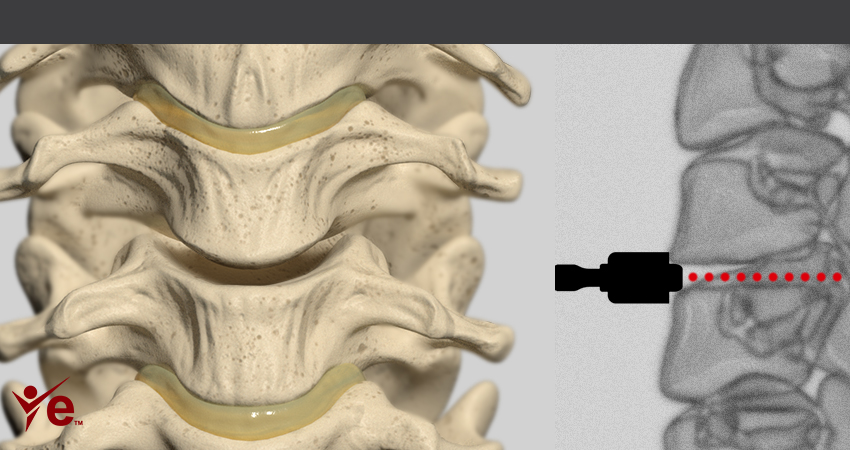
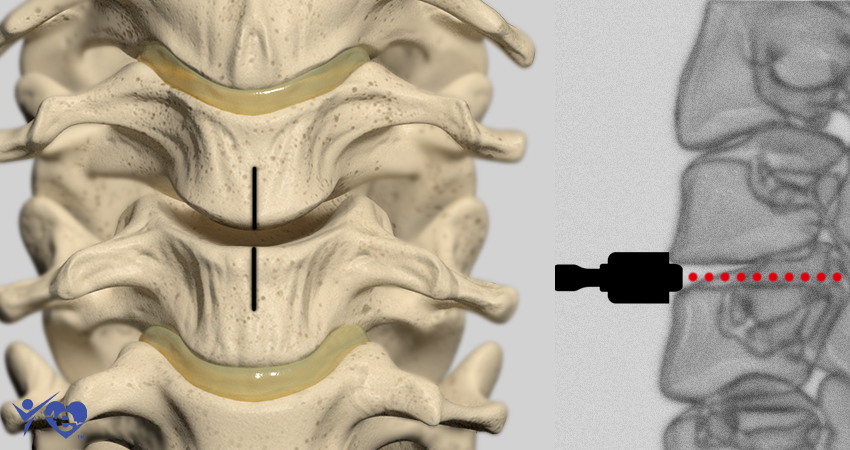
changes

diff --git a/src/App.js b/src/App.js
@@ -5,7 +5,7 @@ import { Line2, LineGeometry, LineMaterial } from 'three-fatline';
 
 //scene
 let canvas, camera, scene, light, renderer,
-	chiselObj, shiftObj, circlePlane;
+	chiselObj, shiftObj, circlePlane, lineObj;
 //popup
 let popupPlaneMesh,
 	popupBtn = document.getElementById('popupBtn'),
@@ -19,9 +19,10 @@ let params = {
 	isSimulationActive: false,
 	isChiselLocked: false,
 	isSetChiselCorrect: undefined,
-	successChiselAngle: 194.5 * Math.PI / 180.0,
-	maxAngleOffset: 2.0 * Math.PI / 180.0,
-	waitPopupTime: 1000
+	successChiselAngle: 195.0 * Math.PI / 180.0,
+	maxAngleOffset: 1.5 * Math.PI / 180.0,
+	waitPopupTime: 1000,
+	successColor: 0x0dff00 
 };
 
 let objectsParams = {
@@ -29,11 +30,11 @@ let objectsParams = {
 	chisel: {
 		chiselObj: 'chisel.obj',
 		chiselMtl: 'chisel.mtl',
-		scale: new THREE.Vector3(1.0, 1.0, 1.0),
-		position: new THREE.Vector3(-16.5, -4.0, -18.0),
+		scale: new THREE.Vector3(1.0, 1.0, 1.3),
+		position: new THREE.Vector3(-16.0, -4.0, -18.0),
 		rotation: new THREE.Vector3(
 			8.0 * Math.PI / 180.0,
-			194.5 * Math.PI / 180.0, //185
+			185.0 * Math.PI / 180.0, //185
 			3.0 * Math.PI / 180.0),
 		rotationPointShift: -15.0,
 		rotationStep: 0.005,
@@ -48,9 +49,9 @@ let objectsParams = {
 		position: 	new THREE.Vector3(13.9, -3.4, 0.0)
 	},
 	line: {
-		lineWidth: 3,
-		lineColor: '#000000',
-		lineEndsPositionArray: [ -15.7, 2.5, -15.0, -15.7, -3.5, -15.0 ]
+		lineWidth: 2,
+		lineColor: '#0dff00',
+		lineEndsPositionArray: [ -15.2, 5.0, -15.0, -5.5, -8.0, 20.0 ]
 	}
 };
 
@@ -111,20 +112,21 @@ class App {
 		});
 		const lineGeometry = new LineGeometry();
 		lineGeometry.setPositions(objectsParams.line.lineEndsPositionArray);
-		const lineObj = new Line2(lineGeometry, lineMtl);
-		scene.add(lineObj);
+		lineObj = new Line2(lineGeometry, lineMtl);
 
 		//planeCircle
 		const circlePlaneGeom = new THREE.PlaneGeometry(objectsParams.circlePlane.width, objectsParams.circlePlane.height, 10.0);
 		loader = new THREE.TextureLoader();
 		const circleMaterial = new THREE.MeshBasicMaterial({
 			map: loader.load(objectsParams.circlePlane.pathSrc, function (texture) {
-				texture.minFilter = THREE.LinearFilter; }),
+				texture.minFilter = THREE.LinearFilter;
+			}),
 			transparent: true
-		});    
+		});
 		circlePlane = new THREE.Mesh(circlePlaneGeom, circleMaterial);
 		circlePlane.scale.copy(objectsParams.circlePlane.scale);
 		circlePlane.position.copy(objectsParams.circlePlane.position);
+		circlePlane.rotation.y = Math.abs(params.successChiselAngle - shiftObj.rotation.y) * 2.0;
 		scene.add(circlePlane);
 		
 		//popup
@@ -153,7 +155,15 @@ function onMouseMove(e) {
 		if (newAngle < objectsParams.chisel.maxAngle && newAngle > objectsParams.chisel.minAngle)
 		{
 			shiftObj.rotation.y += movementX * objectsParams.chisel.rotationStep;
-			circlePlane.rotation.y = Math.abs(objectsParams.chisel.rotation.y - shiftObj.rotation.y) * 2.0;
+			circlePlane.rotation.y = Math.abs(params.successChiselAngle - shiftObj.rotation.y) * 2.0;
+		}
+		//check for green success
+		scene.remove(lineObj);
+		circlePlane.material.color.setHex( 0xffffff );
+		if (Math.abs(shiftObj.rotation.y - params.successChiselAngle) < params.maxAngleOffset)
+		{
+			scene.add(lineObj);
+			circlePlane.material.color.setHex( params.successColor );
 		}
 	}
 }
@@ -203,7 +213,7 @@ function createPopupPlane() {
 		transparent: true
 	});    
 	popupPlaneMesh = new THREE.Mesh(popupPlane, popupMaterial);
-	popupPlaneMesh.scale.set(0.035, 0.035, 0.035)
+	popupPlaneMesh.scale.set(0.04, 0.045, 0.04)
 	popupPlaneMesh.position.z = 10;
 }
 

diff --git a/build/bundle.js b/build/bundle.js
@@ -44259,7 +44259,7 @@
 
 	//scene
 	let canvas, camera, scene, light, renderer,
-		chiselObj, shiftObj, circlePlane;
+		chiselObj, shiftObj, circlePlane, lineObj;
 	//popup
 	let popupPlaneMesh,
 		popupBtn = document.getElementById('popupBtn'),
@@ -44273,9 +44273,10 @@
 		isSimulationActive: false,
 		isChiselLocked: false,
 		isSetChiselCorrect: undefined,
-		successChiselAngle: 194.5 * Math.PI / 180.0,
-		maxAngleOffset: 2.0 * Math.PI / 180.0,
-		waitPopupTime: 1000
+		successChiselAngle: 195.0 * Math.PI / 180.0,
+		maxAngleOffset: 1.5 * Math.PI / 180.0,
+		waitPopupTime: 1000,
+		successColor: 0x0dff00 
 	};
 
 	let objectsParams = {
@@ -44283,11 +44284,11 @@
 		chisel: {
 			chiselObj: 'chisel.obj',
 			chiselMtl: 'chisel.mtl',
-			scale: new Vector3(1.0, 1.0, 1.0),
-			position: new Vector3(-16.5, -4.0, -18.0),
+			scale: new Vector3(1.0, 1.0, 1.3),
+			position: new Vector3(-16.0, -4.0, -18.0),
 			rotation: new Vector3(
 				8.0 * Math.PI / 180.0,
-				194.5 * Math.PI / 180.0, //185
+				185.0 * Math.PI / 180.0, //185
 				3.0 * Math.PI / 180.0),
 			rotationPointShift: -15.0,
 			rotationStep: 0.005,
@@ -44302,9 +44303,9 @@
 			position: 	new Vector3(13.9, -3.4, 0.0)
 		},
 		line: {
-			lineWidth: 3,
-			lineColor: '#000000',
-			lineEndsPositionArray: [ -15.7, 2.5, -15.0, -15.7, -3.5, -15.0 ]
+			lineWidth: 2,
+			lineColor: '#0dff00',
+			lineEndsPositionArray: [ -15.2, 5.0, -15.0, -5.5, -8.0, 20.0 ]
 		}
 	};
 
@@ -44365,20 +44366,21 @@
 			});
 			const lineGeometry = new LineGeometry();
 			lineGeometry.setPositions(objectsParams.line.lineEndsPositionArray);
-			const lineObj = new Line2(lineGeometry, lineMtl);
-			scene.add(lineObj);
+			lineObj = new Line2(lineGeometry, lineMtl);
 
 			//planeCircle
 			const circlePlaneGeom = new PlaneGeometry(objectsParams.circlePlane.width, objectsParams.circlePlane.height, 10.0);
 			loader = new TextureLoader();
 			const circleMaterial = new MeshBasicMaterial({
 				map: loader.load(objectsParams.circlePlane.pathSrc, function (texture) {
-					texture.minFilter = LinearFilter; }),
+					texture.minFilter = LinearFilter;
+				}),
 				transparent: true
-			});    
+			});
 			circlePlane = new Mesh(circlePlaneGeom, circleMaterial);
 			circlePlane.scale.copy(objectsParams.circlePlane.scale);
 			circlePlane.position.copy(objectsParams.circlePlane.position);
+			circlePlane.rotation.y = Math.abs(params.successChiselAngle - shiftObj.rotation.y) * 2.0;
 			scene.add(circlePlane);
 			
 			//popup
@@ -44407,7 +44409,15 @@
 			if (newAngle < objectsParams.chisel.maxAngle && newAngle > objectsParams.chisel.minAngle)
 			{
 				shiftObj.rotation.y += movementX * objectsParams.chisel.rotationStep;
-				circlePlane.rotation.y = Math.abs(objectsParams.chisel.rotation.y - shiftObj.rotation.y) * 2.0;
+				circlePlane.rotation.y = Math.abs(params.successChiselAngle - shiftObj.rotation.y) * 2.0;
+			}
+			//check for green success
+			scene.remove(lineObj);
+			circlePlane.material.color.setHex( 0xffffff );
+			if (Math.abs(shiftObj.rotation.y - params.successChiselAngle) < params.maxAngleOffset)
+			{
+				scene.add(lineObj);
+				circlePlane.material.color.setHex( params.successColor );
 			}
 		}
 	}
@@ -44457,7 +44467,7 @@
 			transparent: true
 		});    
 		popupPlaneMesh = new Mesh(popupPlane, popupMaterial);
-		popupPlaneMesh.scale.set(0.035, 0.035, 0.035);
+		popupPlaneMesh.scale.set(0.04, 0.045, 0.04);
 		popupPlaneMesh.position.z = 10;
 	}
 

diff --git a/index.html b/index.html
@@ -11,27 +11,31 @@
         *{
             margin: 0;
             padding: 0;
+            font-family: Calibri,sans-serif;
         }
         #popupTitle{
-            left: 276px;
-            top: 127px;
-            font-size: 11px;
+            left: 256px;
+            top: 98px;
+            font-size: 14px;
             color: #fff;
             display: none;
+            font-family: Calibri,sans-serif;
         }
         #popupText{
-            left: 275px;
-            top: 155px;
-            font-size: 12px;
+            left: 240px;
+            top: 125px;
+            font-size: 16px;
             text-align: justify;
-            width: 290px;
+            width: 370px;
             resize: none;
             display: none;
         }
         #popupBtn{
+            appearance: none;
+            font-family: Calibri,sans-serif;
             position: absolute;
-            background-color: rgb(122, 122, 122);
-            border: 2px solid rgb(122, 122, 122);
+            background-color: #4D4D4D;
+            border: 2px solid #A9A9A9;
             transition: border 0.3s ease-in;
             cursor: pointer;
             color: #fff;
@@ -39,10 +43,14 @@
             border-radius: 5px;
             letter-spacing: .5px;
             left: 370px;
-            top: 265px;
-            font-size: 12px;
+            top: 282px;
+            font-size: 16px;
             width: 100px;
             display: none;
+        }
+        #popupBtn:hover{
+            background-color: #A9A9A9;
+            border: 2px solid #4D4D4D;
         }
         .interface-text{
             position: absolute;
@@ -50,6 +58,7 @@
             border: none;
             letter-spacing: .5px;
             outline: none;
+            color: #4D4D4D;
         }
     </style>
 </head>
